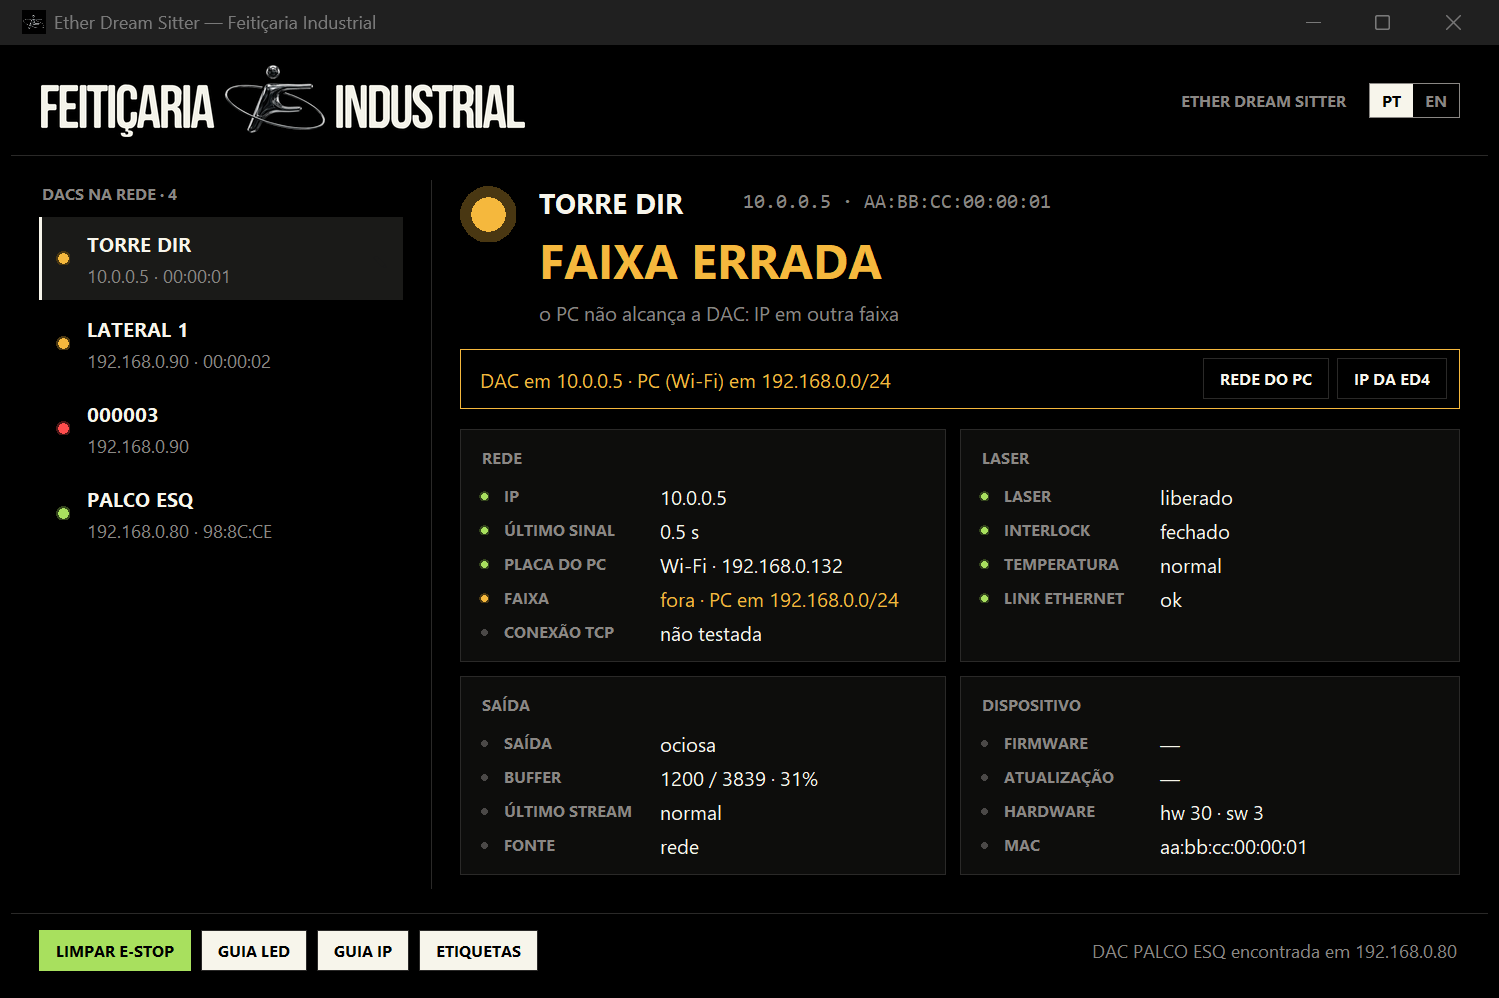
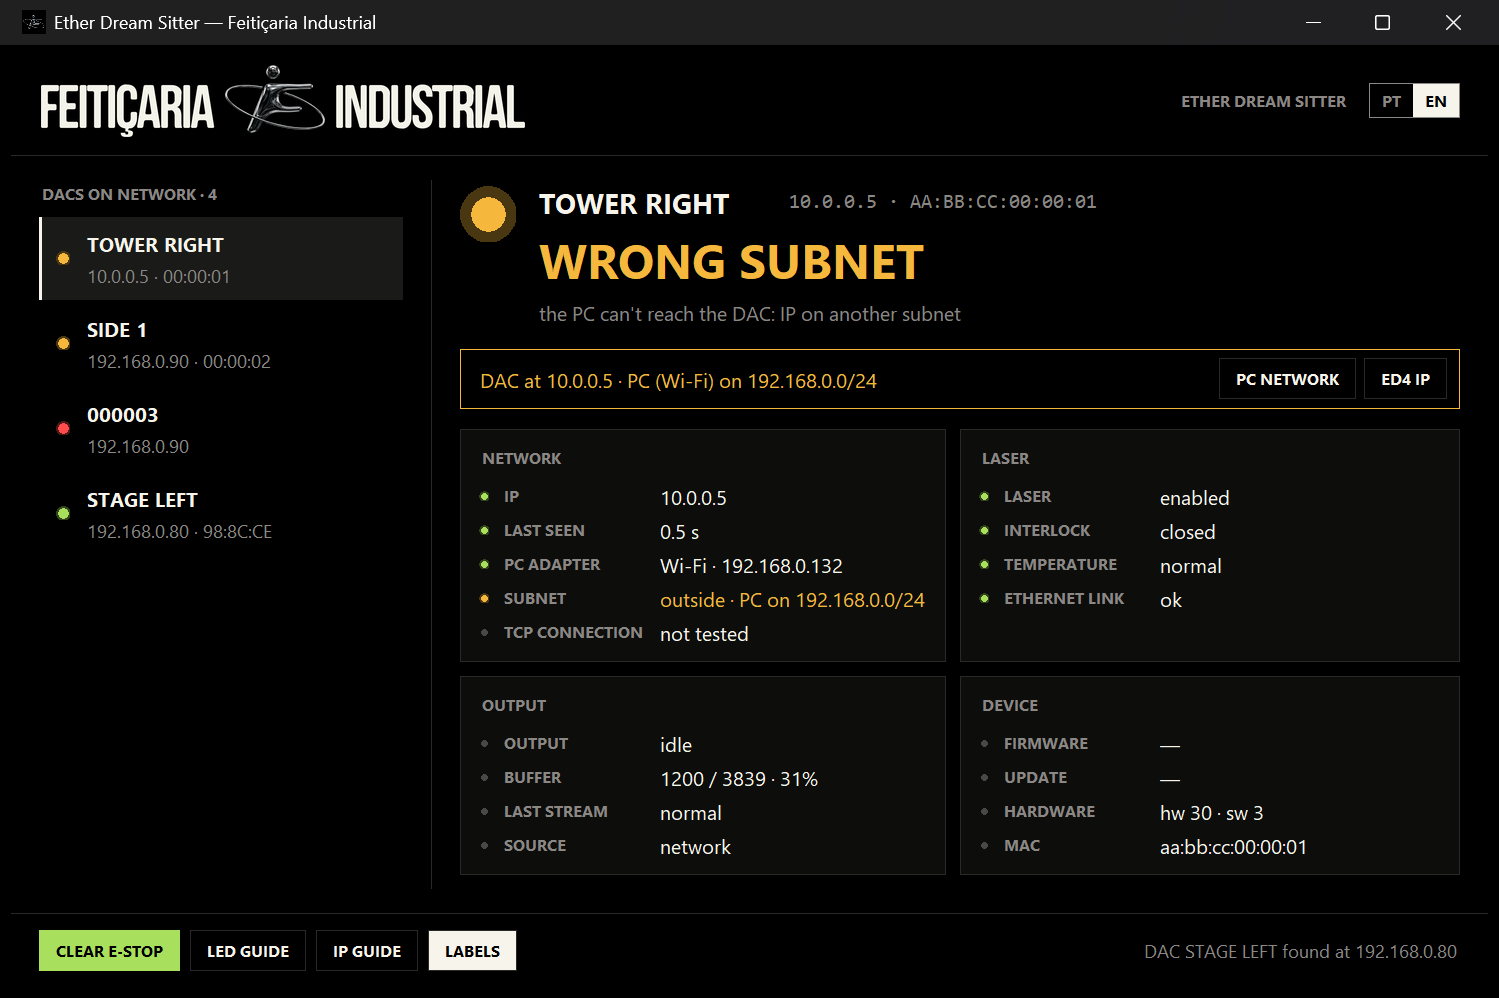
Translate README, build script and CI to English; English screenshots

diff --git a/README.md b/README.md
@@ -1,53 +1,51 @@
 # Ether Dream Sitter — Feitiçaria INDUSTRIAL
 
-Monitor de rede para DACs de laser **Ether Dream** (ED2, ED3, ED4). Mostra todas as DACs da rede, o estado de cada uma por cor de LED, avisa faixa de IP errada e IP duplicado, e limpa E-Stop. Windows e macOS (Apple Silicon). PT-BR / EN automático.
-
-Network monitor for **Ether Dream** laser DACs (ED2, ED3, ED4). Lists every DAC on the network, color-coded status, wrong-subnet and duplicate-IP warnings, Clear E-Stop. Windows and macOS (Apple Silicon). PT-BR / EN auto-detected.
+Network monitor for **Ether Dream** laser DACs (ED2, ED3, ED4). Lists every DAC on the network with color-coded status, warns about wrong subnets and duplicate IPs, and clears E-Stop. Runs on Windows and macOS (Apple Silicon). UI in English and Portuguese, auto-detected.
 
 ![Windows](docs/windows.png)
 
 ## Download
 
-| Sistema | Arquivo |
+| Platform | File |
 |---|---|
 | Windows 10/11 (x64) | [EtherDream-Sitter-FI.exe](https://github.com/MatheusMeM/etherdream-sitter-fi/releases/latest/download/EtherDream-Sitter-FI.exe) |
 | macOS 11+ Apple Silicon (M1–M4) | [EtherDream-Sitter-FI-mac-arm64.zip](https://github.com/MatheusMeM/etherdream-sitter-fi/releases/latest/download/EtherDream-Sitter-FI-mac-arm64.zip) |
-| Código-fonte | [Releases](https://github.com/MatheusMeM/etherdream-sitter-fi/releases/latest) |
+| Source code | [Releases](https://github.com/MatheusMeM/etherdream-sitter-fi/releases/latest) |
 
-**Windows:** o .exe não é assinado; no aviso do SmartScreen, *Mais informações → Executar assim mesmo*.
+**Windows:** the .exe is not code-signed. On the SmartScreen prompt, choose *More info → Run anyway*.
 
-**macOS:** descompacte e arraste para Aplicativos. Na primeira vez, clique com o botão direito → *Abrir* (app sem notarização da Apple). Se o macOS disser que o app "está danificado":
+**macOS:** unzip and drag to Applications. The app is not notarized, so the first time right-click it → *Open*. If macOS says the app "is damaged":
 
 ```bash
 xattr -dr com.apple.quarantine /Applications/EtherDream-Sitter-FI.app
 ```
 
-Aceite o pedido de **Rede Local** — sem ele o app não vê as DACs.
+Allow the **Local Network** prompt — without it the app cannot see the DACs.
 
-## Recursos
+## Features
 
-- **Passivo:** lê só o broadcast UDP 7654. Na ED4 qualquer conexão TCP nova derruba o stream em andamento, então o sitter só conecta com a DAC parada (leitura de firmware) ou quando você clica em LIMPAR E-STOP.
-- **Estado por LED:** OPERACIONAL, TOCANDO, PREPARADA, E-STOP (com causa: interlock, temperatura, comando de rede), OCUPADA, OFFLINE.
-- **Rede:** placa do PC que vê cada DAC, faixa de IP errada (botões para abrir a rede do PC ou o guia de IP da ED4), IP duplicado.
-- **Nomes:** dê nome a cada DAC ("PALCO ESQ") — clique lento no nome, F2 ou o lápis. Fica salvo no computador, não na placa.
-- **Etiquetas:** prévia e impressão com nome, MAC e IP.
-- **Guias:** cores do LED da ED4 e troca de IP via `ip.txt`.
-- **Firmware:** mostra a versão e avisa quando há atualização.
+- **Passive:** reads only the UDP 7654 broadcast. On the ED4 any new TCP connection stops the running stream, so the sitter connects only when the DAC is idle (firmware read) or when you click CLEAR E-STOP.
+- **Status by LED color:** OPERATIONAL, PLAYING, PREPARED, E-STOP (with cause: interlock, temperature, network command), BUSY, OFFLINE.
+- **Network check:** which PC adapter sees each DAC, wrong subnet (buttons to open the PC network settings or the ED4 IP guide), duplicate IP.
+- **Names:** give each DAC a name ("STAGE LEFT") — slow click on the name, F2, or the pencil icon. Stored on the computer, not on the DAC.
+- **Labels:** preview and print with name, MAC and IP.
+- **Guides:** ED4 LED colors and changing the IP via `ip.txt`.
+- **Firmware:** shows the version and flags available updates.
 
-| Etiquetas | macOS |
+| Labels | macOS |
 |---|---|
-| ![Etiquetas](docs/etiquetas.png) | ![macOS](docs/macos.png) |
+| ![Labels](docs/labels.png) | ![macOS](docs/macos.png) |
 
-## Onde ficam os arquivos
+## Files
 
 | | Windows | macOS |
 |---|---|---|
-| Nomes das DACs | `etherdream_nomes.json` ao lado do .exe | `~/Library/Application Support/EtherDreamSitterFI/` |
-| Log de erros | `%LOCALAPPDATA%\EtherDreamSitterFI\erro.log` | `~/Library/Logs/EtherDreamSitterFI/erro.log` |
+| DAC names | `etherdream_nomes.json` next to the .exe | `~/Library/Application Support/EtherDreamSitterFI/` |
+| Error log | `%LOCALAPPDATA%\EtherDreamSitterFI\erro.log` | `~/Library/Logs/EtherDreamSitterFI/erro.log` |
 
-## Rodar do código / build
+## Run from source / build
 
-Python 3.12+ com Tk 8.6 (no macOS, o Python do python.org). Sem dependências externas.
+Python 3.12+ with Tk 8.6 (on macOS use the python.org installer). No third-party dependencies.
 
 ```bash
 python sitter_fi.py
@@ -61,10 +59,10 @@ pip install pyinstaller
 pyinstaller --onefile --windowed --name EtherDream-Sitter-FI --icon assets/fi.ico sitter_fi.py
 ```
 
-macOS (.app, num Mac Apple Silicon): `bash build_mac.sh`. O workflow [build-mac](.github/workflows/build-mac.yml) faz o mesmo num runner M1 do GitHub a cada push.
+macOS (.app, on an Apple Silicon Mac): `bash build_mac.sh`. The [build-mac](.github/workflows/build-mac.yml) workflow does the same on a GitHub M1 runner on every push, launches the app and uploads a screenshot.
 
-## Licença
+## License
 
-GPL-3.0 — ver [LICENSE](LICENSE). Derivado do `sitter` do projeto [j4cDAC](https://github.com/j4cbo/j4cDAC), Copyright 2012 Jacob Potter. Protocolo: [ether-dream.com/protocol.html](https://ether-dream.com/protocol.html).
+GPL-3.0 — see [LICENSE](LICENSE). Derived from the `sitter` tool of [j4cDAC](https://github.com/j4cbo/j4cDAC), Copyright 2012 Jacob Potter. Protocol: [ether-dream.com/protocol.html](https://ether-dream.com/protocol.html).
 
-Ether Dream é marca de seus respectivos donos; este projeto não é afiliado.
+Ether Dream is a trademark of its respective owners; this project is not affiliated with them.
